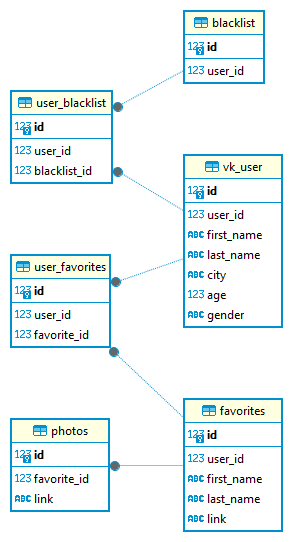
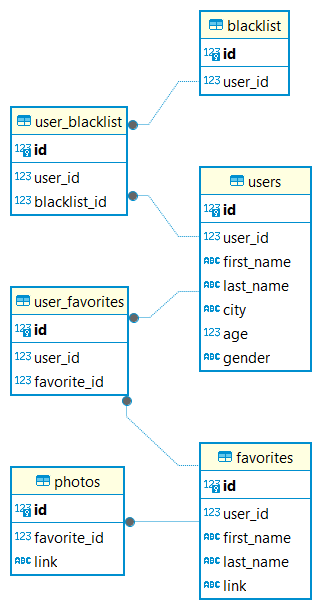
5

diff --git a/my_functions.py b/my_functions.py
@@ -1,0 +1,111 @@
+from models import Base
+from models import User, Favorites, UserFavorites, BlackList, UserBlackList
+from database import session, engine
+
+
+def create_tables():
+    '''Создание таблиц'''
+    Base.metadata.drop_all(engine)
+    Base.metadata.create_all(engine)
+
+
+def add_user(user):
+    '''Добавление пользователя в БД'''
+    with session() as sess:
+        check = sess.query(User.id).filter(User.user_id == user.user_id).first()
+        if not check:
+            new_user = User(user_id=user.user_id,
+                            first_name=user.first_name,
+                            last_name=user.last_name,
+                            city=user.city,
+                            age=user.age,
+                            gender=user.gender)
+            sess.add(new_user)
+            sess.commit()
+
+
+def add_or_del_favorite(user, favorite):
+    '''Добавление или удаление избранного пользователя и связи user_favorites'''
+    with session() as sess:
+        check_favorite = sess.query(Favorites).filter(Favorites.user_id == favorite.user_id).first()
+        user_id = sess.query(User.id).filter(User.user_id == user.user_id).first()[0]
+
+        if not check_favorite:
+            new_favorite = Favorites(user_id=favorite.user_id,
+                                     first_name=favorite.first_name,
+                                     last_name=favorite.last_name,
+                                     link=favorite.link
+                                     )
+
+            sess.add(new_favorite)
+            sess.commit()
+
+            favorite_id = sess.query(Favorites.id).filter(Favorites.user_id == favorite.user_id).first()[0]
+            new_user_favorite = UserFavorites(user_id=user_id, favorite_id=favorite_id)
+            sess.add(new_user_favorite)
+            sess.commit()
+        else:
+            favorite_id = sess.query(Favorites.id).filter(Favorites.user_id == favorite.user_id).first()[0]
+            check_user_favorite = sess.query(UserFavorites).filter((UserFavorites.user_id == user_id) &
+                                                                   (UserFavorites.favorite_id == favorite_id)).first()
+            if not check_user_favorite:
+                new_user_favorite = UserFavorites(user_id=user_id, favorite_id=favorite_id)
+                sess.add(new_user_favorite)
+                sess.commit()
+            else:
+                sess.query(UserFavorites).filter((UserFavorites.user_id == user_id) &
+                                                 (UserFavorites.favorite_id == favorite_id)).delete()
+                sess.commit()
+
+
+def check_user_in_blacklist(user, blacklist):
+    '''Проверяет есть ли пользователь в черном списке'''
+    with session() as sess:
+        check_blacklist = sess.query(BlackList).filter(BlackList.user_id == blacklist.user_id).first()
+        if check_blacklist:
+            user_id = sess.query(User.id).filter(User.user_id == user.user_id).first()[0]
+            blacklist_id = sess.query(BlackList.id).filter(BlackList.user_id == blacklist.user_id).first()[0]
+            check_user_blacklist = sess.query(UserBlackList).filter((UserBlackList.user_id == user_id) &
+                                                                    (UserBlackList.blacklist_id == blacklist_id)).first()
+            if check_user_blacklist:
+                return True
+            return False
+        return False
+
+
+def add_or_del_blacklist(user, blacklist):
+    '''Добавление или удаление в черный список и связи user_blacklist'''
+    with session() as sess:
+        check_blacklist = sess.query(BlackList).filter(BlackList.user_id == blacklist.user_id).first()
+        user_id = sess.query(User.id).filter(User.user_id == user.user_id).first()[0]
+
+        if not check_blacklist:
+            new_blacklist = BlackList(user_id=blacklist.user_id)
+            sess.add(new_blacklist)
+            sess.commit()
+
+            blacklist_id = sess.query(BlackList.id).filter(BlackList.user_id == blacklist.user_id).first()[0]
+            new_user_blacklist = UserBlackList(user_id=user_id, blacklist_id=blacklist_id)
+            sess.add(new_user_blacklist)
+            sess.commit()
+        else:
+            blacklist_id = sess.query(BlackList.id).filter(BlackList.user_id == blacklist.user_id).first()[0]
+            check_user_blacklist = sess.query(UserBlackList).filter((UserBlackList.user_id == user_id) &
+                                                                    (
+                                                                                UserBlackList.blacklist_id == blacklist_id)).first()
+            if not check_user_blacklist:
+                new_user_blacklist = UserBlackList(user_id=user_id, blacklist_id=blacklist_id)
+                sess.add(new_user_blacklist)
+                sess.commit()
+            else:
+                sess.query(UserBlackList).filter((UserBlackList.user_id == user_id) &
+                                                 (UserBlackList.blacklist_id == blacklist_id)).delete()
+                sess.commit()
+
+
+def get_favorites(user):
+    '''Получение избранных пользователей'''
+    with session() as sess:
+        user_id = sess.query(User.id).filter(User.user_id == user.user_id)
+        all_favorites = sess.query(Favorites).join(UserFavorites.favorites).filter(UserFavorites.user_id == user_id).all()
+        return all_favorites

diff --git a/basic_code.py b/basic_code.py
@@ -3,25 +3,10 @@ from random import randrange
 import vk_api
 from vk_api.longpoll import VkLongPoll, VkEventType
 from vk_api.keyboard import VkKeyboard, VkKeyboardColor
-import sqlalchemy
-from sqlalchemy.orm import sessionmaker
 
-from models import create_tables, User, Favorites, UserFavorites, Photos, BlackList, UserBlackList
+from models import UserVK, FavoriteVK, BlacklistVK
+from my_functions import create_tables, add_user, add_or_del_favorite, add_or_del_blacklist, check_user_in_blacklist, get_favorites
 
-
-driver_db = input('Введите название СУБД: ')
-login = input('Введите имя пользователя: ')
-password = input('Введите пароль: ')
-host = input('Введите host сервера: ')
-port = input('Введите порт сервера: ')
-name_db = input('Введите название БД: ')
-
-
-DSN = f'{driver_db}://{login}:{password}@{host}:{port}/{name_db}'
-
-engine = sqlalchemy.create_engine(DSN)
-
-session = sessionmaker(bind=engine)()
 
 token = input('Token: ')
 
@@ -37,7 +22,8 @@ def write_msg(user_id, message):
                                 'keyboard': keyboard.get_keyboard()
                                 })
 
-
+keyboard.add_button('Старт', color=VkKeyboardColor.POSITIVE)
+keyboard.add_line()
 keyboard.add_button('<<<', color=VkKeyboardColor.PRIMARY)
 keyboard.add_button('>>>', color=VkKeyboardColor.PRIMARY)
 keyboard.add_line()
@@ -49,7 +35,57 @@ keyboard.add_button('Черный список', color=VkKeyboardColor.SECONDARY
 
 
 if __name__ == '__main__':
-    create_tables(engine)
+    create_tables()
+
+    user1 = UserVK(user_id=10, first_name='Вася', last_name='Пупкин', city='Москва', age=25, gender='м')
+    user2 = UserVK(user_id=11, first_name='Мишка', last_name='Япончик', city='Одесса', age=30, gender='м')
+    user3 = UserVK(user_id=12, first_name='Маруся', last_name='Климова', city='Комсомольск-на-Амуре', age=20,
+                   gender='ж')
+    user4 = UserVK(user_id=13, first_name='Эдуард', last_name='Пистолетов', city='Сочи', age=35, gender='м')
+
+    favorite1 = FavoriteVK(user_id=14, first_name='Джеки', last_name='Чан', link='raratayqha.ru')
+    favorite2 = FavoriteVK(user_id=15, first_name='Жан-Клод', last_name='Ван-Дам', link='kcgue.ru')
+    favorite3 = FavoriteVK(user_id=16, first_name='Майкл', last_name='Дудиков', link='akoeemolo.ru')
+    favorite4 = FavoriteVK(user_id=17, first_name='Сильвестр', last_name='Сталлоне', link='poejdeydc.ru')
+    favorite5 = FavoriteVK(user_id=18, first_name='Майкл', last_name='Джордан', link='xnioq.ru')
+
+    blacklist1 = BlacklistVK(user_id=19)
+    blacklist2 = BlacklistVK(user_id=20)
+    blacklist3 = BlacklistVK(user_id=21)
+    blacklist4 = BlacklistVK(user_id=22)
+
+    add_user(user1)
+    add_user(user2)
+    add_user(user1)
+    add_user(user2)
+    add_user(user4)
+    add_user(user3)
+
+    add_or_del_favorite(user1, favorite1)
+    add_or_del_favorite(user1, favorite2)
+    add_or_del_favorite(user1, favorite3)
+    add_or_del_favorite(user2, favorite3)
+    add_or_del_favorite(user3, favorite2)
+    # add_or_del_favorite(user1, favorite1)
+
+    add_or_del_blacklist(user1, blacklist2)
+    add_or_del_blacklist(user2, blacklist2)
+    add_or_del_blacklist(user4, blacklist3)
+    add_or_del_blacklist(user4, blacklist1)
+    add_or_del_blacklist(user1, blacklist2)
+
+    print(check_user_in_blacklist(user1, blacklist2))
+    print(check_user_in_blacklist(user2, blacklist2))
+    print(check_user_in_blacklist(user4, blacklist3))
+    print(check_user_in_blacklist(user3, blacklist3))
+
+    favorite_list1 = get_favorites(user1)
+    favorite_list2 = get_favorites(user2)
+    for favorite in favorite_list1:
+        print(favorite)
+    for favorite in favorite_list2:
+        print(favorite)
+
     for event in longpoll.listen():
         if event.type == VkEventType.MESSAGE_NEW:
 

diff --git a/models.py b/models.py
@@ -6,7 +6,7 @@ Base = declarative_base()
 
 
 class User(Base):
-    __tablename__ = 'vk_user'
+    __tablename__ = 'users'
 
     id = sq.Column(sq.Integer, primary_key=True)
     user_id = sq.Column(sq.Integer, nullable=False, unique=True)
@@ -25,6 +25,9 @@ class Favorites(Base):
     first_name = sq.Column(sq.String(length=50), nullable=False)
     last_name = sq.Column(sq.String(length=50))
     link = sq.Column(sq.String(length=100), unique=True, nullable=False)
+
+    def __str__(self):
+        return f'{self.first_name} {self.last_name}, ссылка - {self.link}'
 
 
 class UserFavorites(Base):
@@ -66,9 +69,24 @@ class UserBlackList(Base):
     blacklist = relationship(BlackList, backref='user_blacklists')
 
 
-def create_tables(engine):
-    '''
-    Создание таблиц
-    '''
-    Base.metadata.drop_all(engine)
-    Base.metadata.create_all(engine)
+class UserVK:
+    def __init__(self, user_id, first_name, last_name, city, age, gender):
+        self.user_id = user_id
+        self.first_name = first_name
+        self.last_name = last_name
+        self.city = city
+        self.age = age
+        self.gender = gender
+
+
+class FavoriteVK:
+    def __init__(self, user_id, first_name, last_name, link):
+        self.user_id = user_id
+        self.first_name = first_name
+        self.last_name = last_name
+        self.link = link
+
+
+class BlacklistVK:
+    def __init__(self, user_id):
+        self.user_id = user_id

diff --git a/database.py b/database.py
@@ -1,0 +1,16 @@
+import sqlalchemy
+from sqlalchemy.orm import sessionmaker
+
+driver_db = input('Введите название СУБД: ')
+login = input('Введите имя пользователя: ')
+password = input('Введите пароль: ')
+host = input('Введите host сервера: ')
+port = input('Введите порт сервера: ')
+name_db = input('Введите название БД: ')
+
+
+DSN = f'{driver_db}://{login}:{password}@{host}:{port}/{name_db}
+
+engine = sqlalchemy.create_engine(DSN)
+
+session = sessionmaker(bind=engine)
